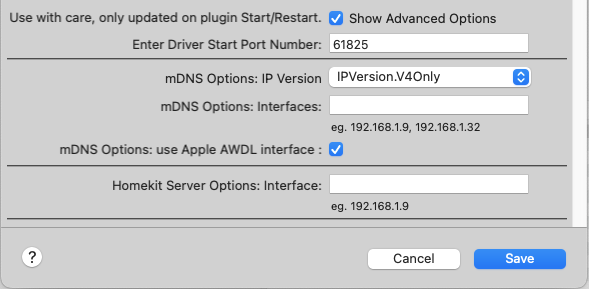
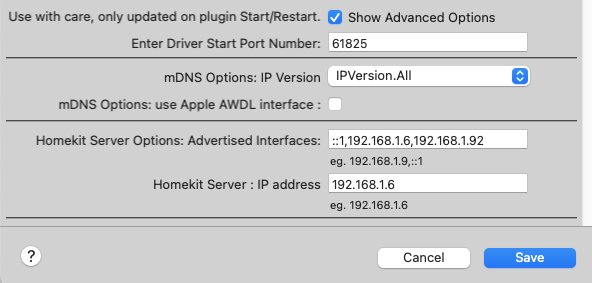
0.6.15 😀 Better Beta Release Version: Improved support for multiple advertising of IPs:
(see new image AdvancedOptions.png)
Homekit Server Options: Advertised Interfaces:  (in my example)
::1 = (IVP6 localhost)
192.168.1.6 = (Ethernet interface)
192.168.1.92 = (Wifi interface)
&
Homekit Server: IP address
IVP4 IP interface that server is running on
192.168.1.6 = (Ethernet interface)

0.6.14
Beta release version:
Use  byte/binary data for UUIDs as it appears apple changing from Lowercase to Uppercase at times.  This bypasses this issue now and into the future.
Allow multiple network stacks for mDNS ivp4 and ivp6 con-currently.
Currently defaults to network internet default interface only, but manually can enter ivp4 and ivp6 addresses in HomeKit Server advanced settings.  Beware if incorrect network settings fail without error messaging.

0.6.9
Bug fix for 0.6.8 missing pair_five binary conversion

0.6.8
Update HomeKit library to use binary blob for pairing data, to avoid any UUID formatting changes

0.6.7
Update Python ZeroConf to 0.63
Change pair verify error messaging to be clearer
Update installs to use v4only mdns on first run

diff --git a/HomeKitLink-Siri.indigoPlugin/Contents/Server Plugin/plugin.py b/HomeKitLink-Siri.indigoPlugin/Contents/Server Plugin/plugin.py
@@ -330,21 +330,31 @@ class Plugin(indigo.PluginBase):
             self.logger.info("This is untested and largely included for full support.")
             self.logger.info("I would not recommend it's usage except in very specific circumstances...")
 
-        self.HAPipaddress = None
+        self.HAPAdvertised_ipaddress = None
         HAPipaddress = self.pluginPrefs.get('HAPipaddress', "")
         if HAPipaddress == "":
-            self.HAPipaddress = None
+            self.HAPAdvertised_ipaddress = None
         elif "," in HAPipaddress:
-            self.HAPipaddress = HAPipaddress.split(",")
+            self.HAPAdvertised_ipaddress = HAPipaddress.split(",")
             self.logger.debug(f"HAP interfaces List to use: {self.select_interfaces}")
-        elif "." in HAPipaddress:
-            self.HAPipaddress = [HAPipaddress]
+        elif "." in HAPipaddress or ":" in HAPipaddress:
+            self.HAPAdvertised_ipaddress = [HAPipaddress]
         else:
             self.logger.warning(f"HAP Interface to use in error state, using default.  Check Plugin Config advanced settings")
-            self.HAPipaddress = None
+            self.HAPAdvertised_ipaddress = None
 
-        self.logger.debug(f"Using Hap interfaces {self.HAPipaddress}")
+        self.HAPServeripaddress = None
+        HAPServeripaddress = self.pluginPrefs.get("HAPServeripaddress","")
+        if HAPServeripaddress == "":
+            self.HAPServeripaddress = None
+        else:
+            self.HAPServeripaddress = HAPServeripaddress
 
+        if self.HAPAdvertised_ipaddress !=None or self.HAPServeripaddress !=None:
+            self.logger.info(f"Using Advanced settings: HAP Server IP {self.HAPServeripaddress} (if NONE will be calculated) with advertised interfaces of: {self.HAPAdvertised_ipaddress}")
+            if self.HAPServeripaddress !=None:
+                if self.HAPServeripaddress not in self.HAPAdvertised_ipaddress:
+                    self.logger.warning(f"It would seem that your IP address running HomeKit ({self.HAPServeripaddress}) is not in the advertised IP addresses.  This will likely cause issues, I would suggest you add {self.HAPServeripaddress} to the list of advertised interfaces in advanced config")
         self.logClientConnected = self.pluginPrefs.get("logClientConnected", True)
 
         loop = asyncio.new_event_loop()
@@ -1139,7 +1149,7 @@ class Plugin(indigo.PluginBase):
             nextport = int(HKutils._find_next_available_port(self.startingPortNumber, self.portsinUse))
             self.logger.debug("Next Port available:{}".format(nextport))
 
-            self.driver_multiple.append(HomeDriver(indigodeviceid=str(uniqueID),iid_storage=self.plugin_iidstorage, port=int(nextport), persist_file=persist_file_location, zeroconf_server=f"HomeKitLinkSiri-{uniqueID}-hap.local", async_zeroconf_instance=self.async_zeroconf_instance, address=self.HAPipaddress))
+            self.driver_multiple.append(HomeDriver(indigodeviceid=str(uniqueID),iid_storage=self.plugin_iidstorage, port=int(nextport), persist_file=persist_file_location, zeroconf_server=f"HomeKitLinkSiri-{uniqueID}-hap.local", async_zeroconf_instance=self.async_zeroconf_instance, address=self.HAPServeripaddress, advertised_address=self.HAPAdvertised_ipaddress))
 
            # self.driver_multiple.append(HomeDriver(indigodeviceid=str(uniqueID), iid_storage=self.plugin_iidstorage, port=int(nextport), persist_file=persist_file_location))
 

diff --git a/HomeKitLink-Siri.indigoPlugin/Contents/Server Plugin/pyhap/accessory_driver.py b/HomeKitLink-Siri.indigoPlugin/Contents/Server Plugin/pyhap/accessory_driver.py
@@ -31,9 +31,10 @@ import threading
 from zeroconf import ServiceInfo
 from zeroconf.asyncio import AsyncZeroconf
 from zeroconf import InterfaceChoice, IPVersion, ServiceStateChange
+from typing import Optional
 
 from pyhap import util
-from pyhap.accessory import get_topic
+from pyhap.accessory import Accessory, get_topic
 from pyhap.characteristic import CharacteristicError
 from pyhap.const import (
     HAP_PERMISSION_NOTIFY,
@@ -277,7 +278,7 @@ class AccessoryDriver:
 
         self.loop = loop
        # self.indigodeviceid = indigodeviceid
-        self.accessory = None
+        self.accessory: Optional[Accessory] = None
         self.advertiser = async_zeroconf_instance
         self.zeroconf_server = zeroconf_server
 
@@ -380,7 +381,7 @@ class AccessoryDriver:
         self.aio_stop_event = asyncio.Event()
 
         logger.info(
-            "Starting accessory %s on addresses %s with port %s.",
+            "Starting accessory %s with advertised addresses %s with port %s.",
             self.accessory.display_name,
             self.state.addresses,
             self.state.port,
@@ -440,13 +441,12 @@ class AccessoryDriver:
         await self.advertiser.async_close()
 
         self.aio_stop_event.set()
-
         self.http_server.async_stop()
 
         logger.info(
-            "Stopping accessory %s on address %s, port %s.",
+            "Stopping accessory %s on addresses %s, port %s.",
             self.accessory.display_name,
-            self.state.address,
+            self.state.addresses,
             self.state.port,
         )
 
